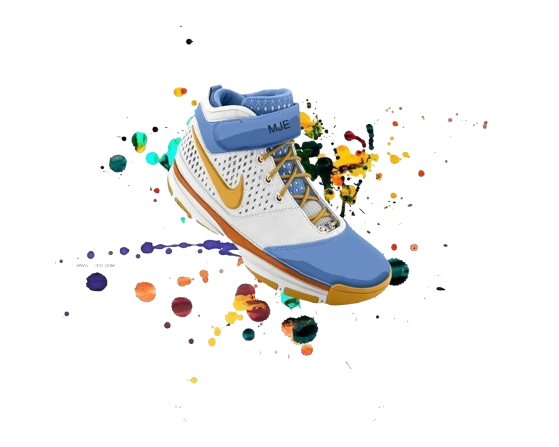
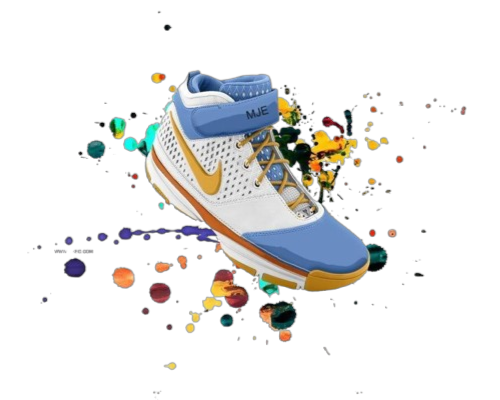
add more cards
change cards images

diff --git a/index.html b/index.html
@@ -37,54 +37,30 @@
         </div>
     </nav>
 
-    <section>
-        <div id="carouselExampleDark" class="carousel carousel-dark slide">
-            <div class="carousel-indicators">
-                <button type="button" data-bs-target="#carouselExampleDark" data-bs-slide-to="0" class="active"
-                    aria-current="true" aria-label="Slide 1"></button>
-                <button type="button" data-bs-target="#carouselExampleDark" data-bs-slide-to="1"
-                    aria-label="Slide 2"></button>
-                <button type="button" data-bs-target="#carouselExampleDark" data-bs-slide-to="2"
-                    aria-label="Slide 3"></button>
-            </div>
-            <div class="carousel-inner ">
-                <!-- <div class="carousel-item active" data-bs-interval="10000"><div class="carousel-caption d-none d-md-block text-light"></div>
-                        <h5>First slide label</h5>
-                        <p>Some representative placeholder content for the first slide.</p>
-                    </div> -->
-                <img src="/assist/Ond1l7E-nike-shoe-wallpaper-removebg-preview.png" class="d-block w-60 h-250 banner-c"
-                    alt="...">
-                <div>
+     <section style="margin-top: 10vh;">
+
+        <div class="container">
+            <div class="row">
+                <div class="col-sm-12 col-md-6 col-lg-6">
+                    <img src="/assist/Ond1l7E-nike-shoe-wallpaper-removebg-preview.png" class="header-img" alt="...">
+                </div>
+                <div class="col-sm-12 col-md-6 col-lg-6">
                     <h1 class="display-6">Step into a New Air</h1>
                     <p class="lead"></p>
                     <hr class="my-2">
                     <p>Featuring the new Air Max 270 React</p>
                     <a class="btn btn-primary btn-lg" href="#" role="button">Shop</a>
                 </div>
-                <!--  <h4 style="float:right">NIKE AIR MAX 2023 iD</h4> -->
-            
-
-        </div>
-
-
-        </div>
-        <button class="carousel-control-prev" type="button" data-bs-target="#carouselExampleDark" data-bs-slide="prev">
-            <span class="carousel-control-prev-icon" aria-hidden="true"></span>
-            <span class="visually-hidden">Previous</span>
-        </button>
-        <button class="carousel-control-next" type="button" data-bs-target="#carouselExampleDark" data-bs-slide="next">
-            <span class="carousel-control-next-icon" aria-hidden="true"></span>
-            <span class="visually-hidden">Next</span>
-        </button>
+            </div>
         </div>
         <section class="my-4">
             <div class="container">
                 <div class="container text-center border border-2 border-grey p-3 rounded-3 shadow ">
                     <div class="row">
-                        <div class="col-sm-6 mb-3 mb-sm-0">
+                        <div class="col-sm-6 col-md-6 col-lg-3">
                             <div class="card shadow">
                                 <img src="/assist/tPUU5HX-nike-shoe-wallpaper-removebg-preview.png"
-                                    class="rounded-3 card-img-top" alt="...">
+                                class="product-img" alt="...">
                                 <div class="card-body">
                                     <h5 class="card-title">MJE</h5>
                                     <p class="card-text">James Winsoar</p>
@@ -92,13 +68,35 @@
                                 </div>
                             </div>
                         </div>
-                        <div class="col-sm-6 mb-3 mb-sm-0">
+                        <div class="col-sm-6 col-md-6 col-lg-3">
                             <div class="card shadow">
                                 <img src="/assist/air-max-pulse-womens-shoes-TLnkLm-removebg-preview.png"
-                                    class="rounded-1 card-img-top" style="height: 461px; width: 400px;" alt="...">
+                                    class="product-img" alt="...">
                                 <div class="card-body">
-                                    <h5 class="card-title">Nike Air Max Pulse Women's</h5>
-                                    <!-- <p class="card-text"></p> -->
+                                    <h5 class="card-title">Nike Air Max Pulse</h5>
+                                    <p class="card-text">James Winsoar</p>
+                                    <a href="#" class="btn btn-primary">Find More</a>
+                                </div>
+                            </div>
+                        </div>
+                        <div class="col-sm-6 col-md-6 col-lg-3">
+                            <div class="card shadow">
+                                <img src="/assist/mshoe1-removebg-preview.png"
+                                class="product-img" alt="...">
+                                <div class="card-body">
+                                    <h5 class="card-title">MJE</h5>
+                                    <p class="card-text">James Winsoar</p>
+                                    <a href="#" class="btn btn-primary">Add to cart</a>
+                                </div>
+                            </div>
+                        </div>
+                        <div class="col-sm-6 col-md-6 col-lg-3">
+                            <div class="card shadow">
+                                <img src="/assist/mshoe-removebg-preview.png"
+                                    class="product-img" alt="...">
+                                <div class="card-body">
+                                    <h5 class="card-title">Nike Air Max Pulse</h5>
+                                    <p class="card-text">James Winsoar</p>
                                     <a href="#" class="btn btn-primary">Find More</a>
                                 </div>
                             </div>
@@ -107,7 +105,7 @@
                 </div>
             </div>
         </section>
-    </section>
+    </section> 
 
     <script src="https://cdn.jsdelivr.net/npm/bootstrap@5.1.3/dist/js/bootstrap.bundle.min.js"
         integrity="sha384-ka7Sk0Gln4gmtz2MlQnikT1wXgYsOg+OMhuP+IlRH9sENBO0LRn5q+8nbTov4+1p"

diff --git a/auth/login.html b/auth/login.html
@@ -14,10 +14,10 @@
     <nav class="navbar navbar-expand-lg navbar-light bg-light">
         <div class="container-fluid">
             <a class="navbar-brand" href="#">Navbar</a>
-            <button class="navbar-toggler" type="button" data-bs-toggle="collapse"
+            <!-- <button class="navbar-toggler" type="button" data-bs-toggle="collapse"
                 data-bs-target="#navbarSupportedContent" aria-controls="navbarSupportedContent" aria-expanded="false"
-                aria-label="Toggle navigation">
-                <span class="navbar-toggler-icon"></span>
+                aria-label="Toggle navigation"> -->
+                <!-- <span class="navbar-toggler-icon"></span> -->
             </button>
             <div>
                 <ul class="nav justify-content-end">

diff --git a/auth/signup.html b/auth/signup.html
@@ -14,11 +14,6 @@
     <nav class="navbar navbar-expand-lg navbar-light bg-light">
         <div class="container-fluid">
             <a class="navbar-brand" href="#">Navbar</a>
-            <button class="navbar-toggler" type="button" data-bs-toggle="collapse"
-                data-bs-target="#navbarSupportedContent" aria-controls="navbarSupportedContent" aria-expanded="false"
-                aria-label="Toggle navigation">
-                <span class="navbar-toggler-icon"></span>
-            </button>
             <div>
                 <ul class="nav justify-content-end">
                     <li class="nav-item">

diff --git a/css/style.css b/css/style.css
@@ -2,13 +2,37 @@
     height: 100vh;
 }
 
-.navbar-menu{
-flex-grow: 0;
+.navbar-menu {
+    flex-grow: 0;
 }
 
 @media only screen and (max-width: 600px) {
-    .banner-c {
-        height: 45vh;
-        object-fit: cover;
+
+    .img-s {
+        height: 10px;
+        width: 10px;
     }
+
+    .header-img {
+        height: auto;
+        width: 100%;
+    }
+    .product-img{
+        height: 250px;
+        width: 100%;
+    }
+}
+
+.img-s {
+    height: 461px;
+    width: 400px;
+}
+
+.header-img {
+    height: auto;
+    width: 100%;
+}
+.product-img{
+    height: 250px;
+    width: 100%;
 }
